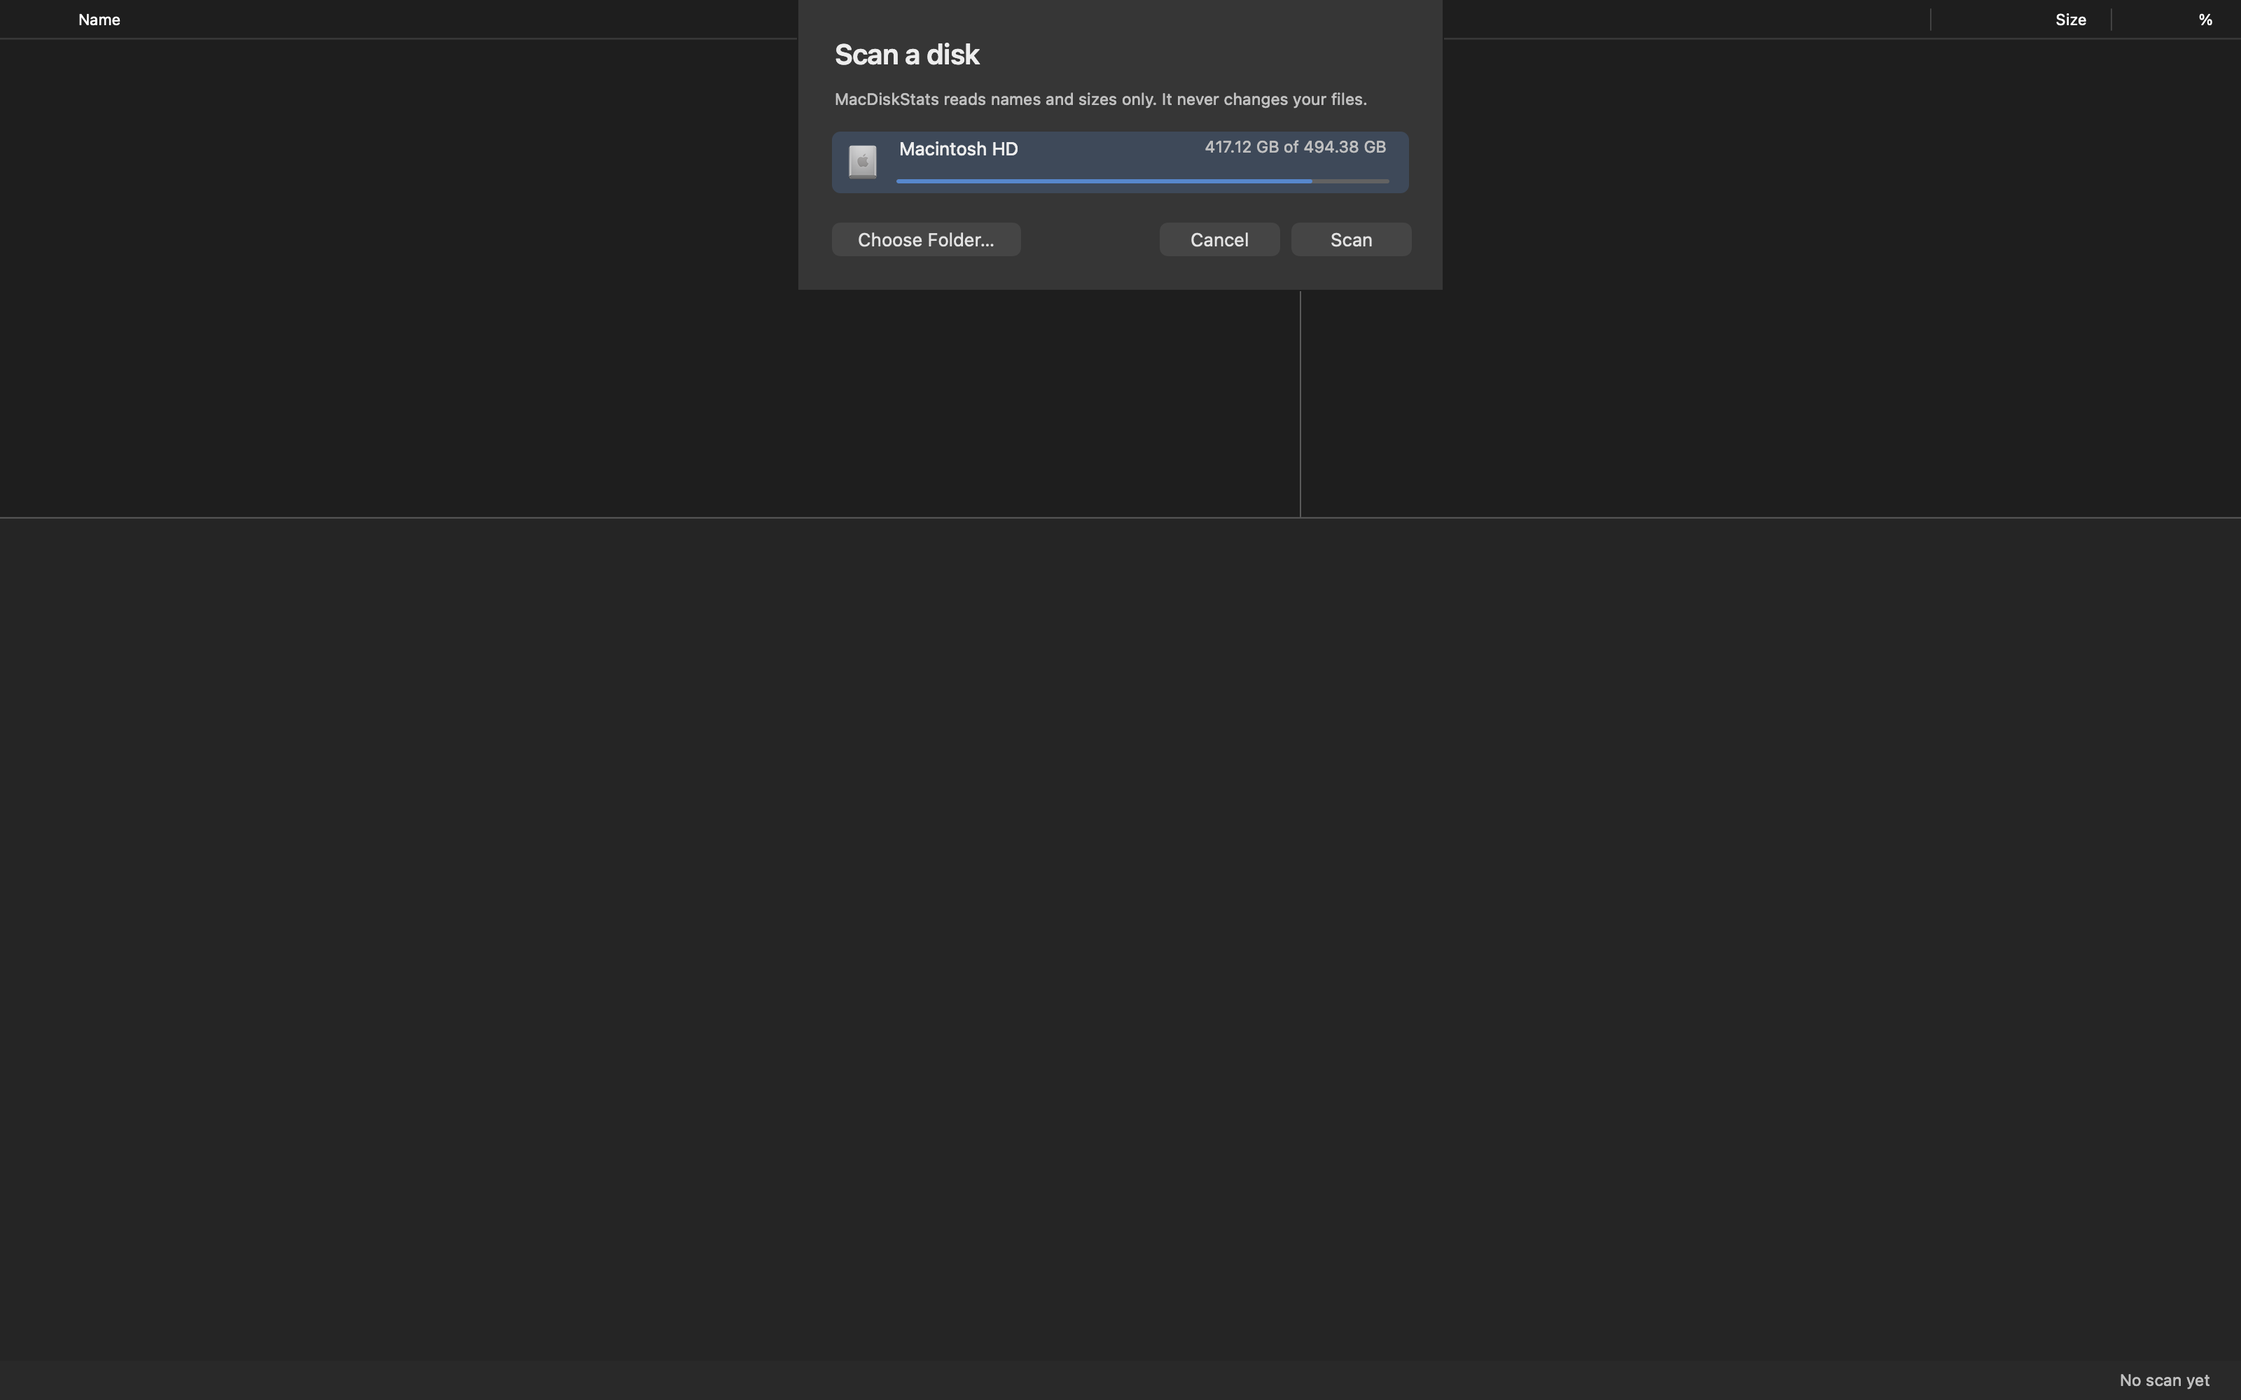
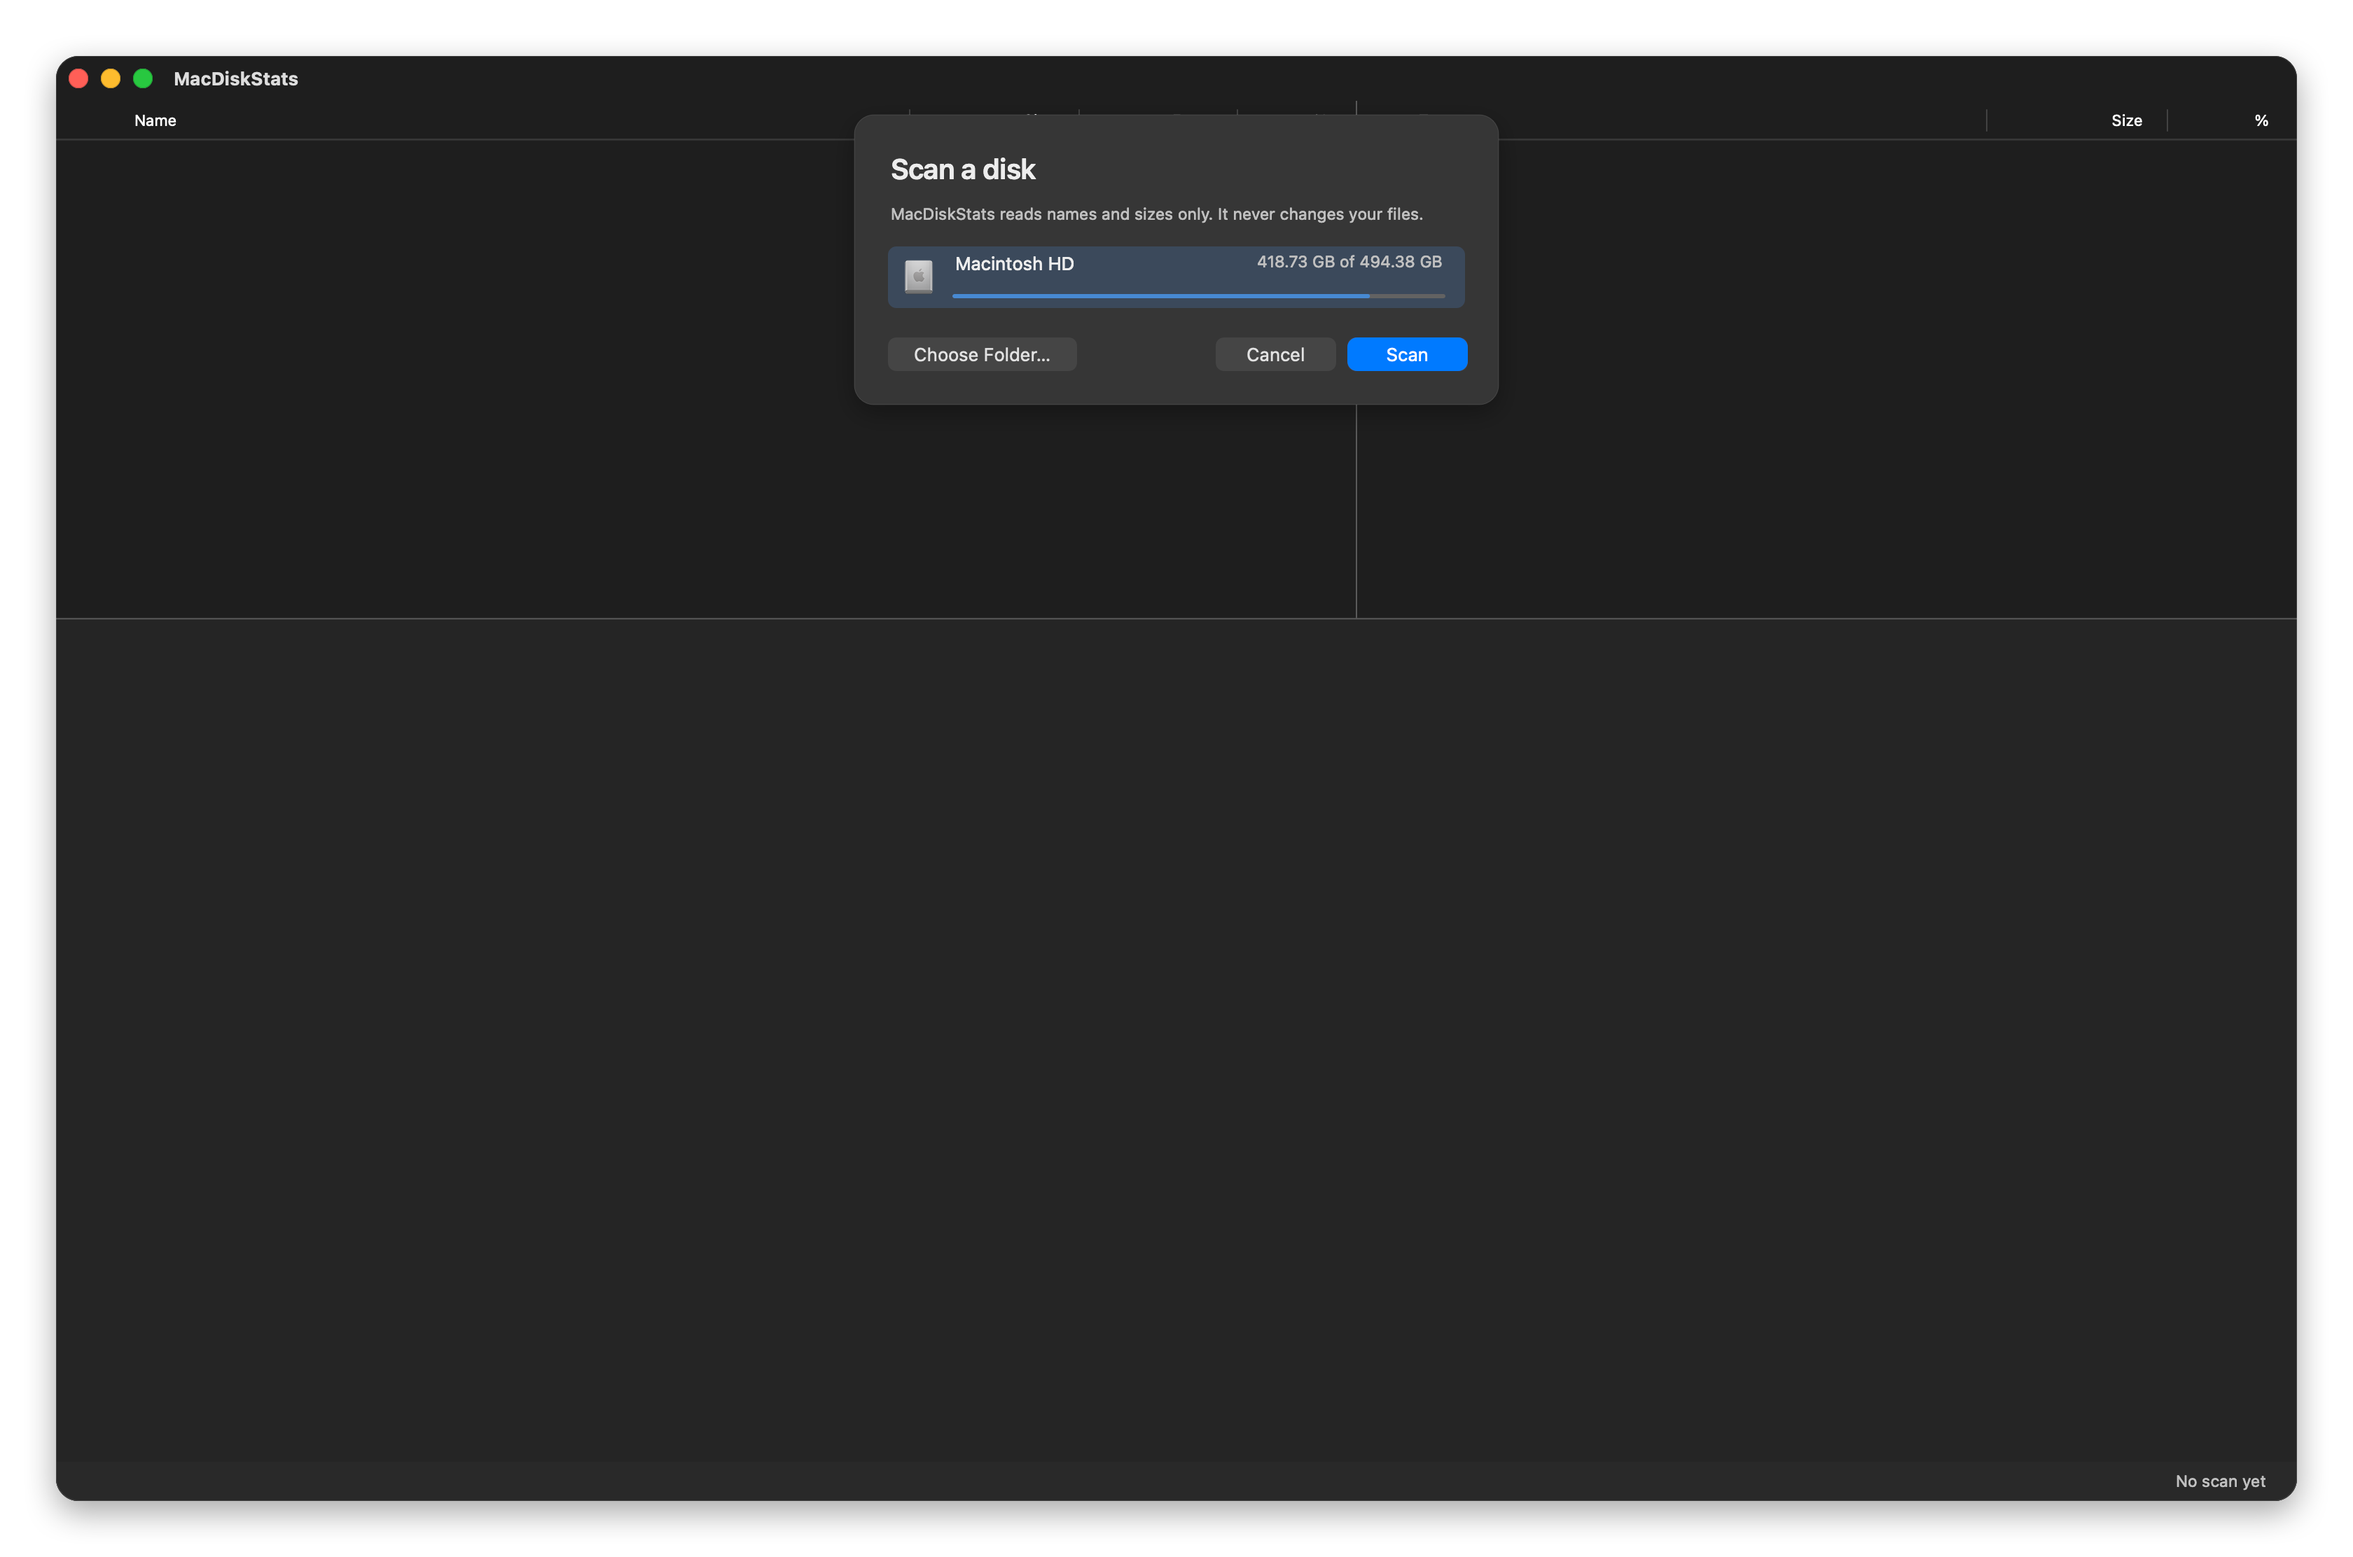
Screenshots show the whole window: title bar, rounded corners, shadow, front-window title and buttons

Changed region(s): [[0.0, 0.0, 1.0, 1.0]]

diff --git a/Sources/MacDiskStatsApp/DebugSnapshot.swift b/Sources/MacDiskStatsApp/DebugSnapshot.swift
@@ -12,6 +12,7 @@ import AppKit
             NSApp.terminate(nil)
             return
         }
+        let windowMode = ProcessInfo.processInfo.environment["MACDISKSTATS_SNAPSHOT_WINDOW"] == "1"
         window.setContentSize(size ?? Tokens.snapshotSize)
         window.contentView?.layoutSubtreeIfNeeded()
         guard let view = window.contentView else { NSApp.terminate(nil); return }
@@ -23,18 +24,34 @@ import AppKit
             let sheetRect = sheetView.bounds
             if let sheetRep = sheetView.bitmapImageRepForCachingDisplay(in: sheetRect) {
                 sheetView.cacheDisplay(in: sheetRect, to: sheetRep)
+                if windowMode, let button = sheet.defaultButtonCell?.controlView as? NSButton {
+                    activeDefaultButton(button, in: sheetView, rep: sheetRep, appearance: sheet.effectiveAppearance)
+                }
                 let context = NSGraphicsContext(bitmapImageRep: rep)
                 NSGraphicsContext.saveGraphicsState()
                 NSGraphicsContext.current = context
                 let x = (rect.width - sheetRect.width) / 2
-                let y = rect.height - sheetRect.height
-                NSColor.windowBackgroundColor.setFill()
-                NSBezierPath(roundedRect: NSRect(x: x - 1, y: y - 1, width: sheetRect.width + 2, height: sheetRect.height + 2), xRadius: 9, yRadius: 9).fill()
-                sheetRep.draw(in: NSRect(x: x, y: y, width: sheetRect.width, height: sheetRect.height))
+                if windowMode {
+                    // A floating rounded card with a shadow, as macOS 26 shows a sheet.
+                    let card = NSRect(x: x, y: rect.height - sheetRect.height - 10, width: sheetRect.width, height: sheetRect.height)
+                    let shape = NSBezierPath(roundedRect: card, xRadius: 14, yRadius: 14)
+                    NSGraphicsContext.saveGraphicsState()
+                    let shadow = NSShadow(); shadow.shadowColor = NSColor.black.withAlphaComponent(0.3); shadow.shadowBlurRadius = 18; shadow.shadowOffset = NSSize(width: 0, height: -6); shadow.set()
+                    NSColor.windowBackgroundColor.setFill(); shape.fill()
+                    NSGraphicsContext.restoreGraphicsState()
+                    NSGraphicsContext.saveGraphicsState(); shape.addClip(); sheetRep.draw(in: card); NSGraphicsContext.restoreGraphicsState()
+                    NSColor.separatorColor.setStroke(); shape.lineWidth = 0.5; shape.stroke()
+                } else {
+                    let y = rect.height - sheetRect.height
+                    NSColor.windowBackgroundColor.setFill()
+                    NSBezierPath(roundedRect: NSRect(x: x - 1, y: y - 1, width: sheetRect.width + 2, height: sheetRect.height + 2), xRadius: 9, yRadius: 9).fill()
+                    sheetRep.draw(in: NSRect(x: x, y: y, width: sheetRect.width, height: sheetRect.height))
+                }
                 NSGraphicsContext.restoreGraphicsState()
             }
         }
-        guard let png = rep.representation(using: .png, properties: [:]) else { NSApp.terminate(nil); return }
+        let output = windowMode ? (wholeWindow(window, content: rep) ?? rep) : rep
+        guard let png = output.representation(using: .png, properties: [:]) else { NSApp.terminate(nil); return }
         do {
             if ProcessInfo.processInfo.environment["MACDISKSTATS_SNAPSHOT_DIR"] == nil {
                 try FileManager.default.createDirectory(at: container, withIntermediateDirectories: true)
@@ -43,6 +60,109 @@ import AppKit
             exit(0)
         }
         catch { fputs("snapshot failed: \(error)\n", stderr); NSApp.terminate(nil) }
+    }
+
+    /// Offscreen, the sheet is not key, so its default button draws grey. Paint it as a key sheet shows it: accent fill, white title.
+    private static func activeDefaultButton(_ button: NSButton, in sheetView: NSView, rep: NSBitmapImageRep, appearance: NSAppearance) {
+        let frame = button.convert(button.bounds, to: sheetView)
+        // Measure the grey bezel the system actually drew, so the blue one has the same size and place as its neighbors.
+        let scale = CGFloat(rep.pixelsWide) / sheetView.bounds.width
+        let px = { (v: CGFloat) in Int((v * scale).rounded()) }
+        let top = { (y: CGFloat) in Int(((sheetView.bounds.height - y) * scale).rounded()) }
+        guard let background = rep.colorAt(x: px(frame.minX) - 3, y: top(frame.midY))?.usingColorSpace(.deviceRGB) else { return }
+        var minX = Int.max, maxX = Int.min, minY = Int.max, maxY = Int.min
+        for y in top(frame.maxY)..<top(frame.minY) {
+            for x in px(frame.minX)..<px(frame.maxX) {
+                guard let c = rep.colorAt(x: x, y: y)?.usingColorSpace(.deviceRGB) else { continue }
+                if abs(c.redComponent - background.redComponent) + abs(c.greenComponent - background.greenComponent) + abs(c.blueComponent - background.blueComponent) > 0.06 {
+                    minX = min(minX, x); maxX = max(maxX, x); minY = min(minY, y); maxY = max(maxY, y)
+                }
+            }
+        }
+        guard minX <= maxX, minY <= maxY else { fputs("snapshot: default button bezel not found; it stays grey\n", stderr); return }
+        let bezel = NSRect(x: CGFloat(minX) / scale, y: sheetView.bounds.height - CGFloat(maxY + 1) / scale, width: CGFloat(maxX - minX + 1) / scale, height: CGFloat(maxY - minY + 1) / scale)
+        appearance.performAsCurrentDrawingAppearance {
+            NSGraphicsContext.saveGraphicsState()
+            NSGraphicsContext.current = NSGraphicsContext(bitmapImageRep: rep)
+            NSColor.controlAccentColor.setFill()
+            NSBezierPath(roundedRect: bezel, xRadius: min(bezel.height / 2, 7), yRadius: min(bezel.height / 2, 7)).fill()
+            let title = NSAttributedString(string: button.title, attributes: [.font: button.font ?? NSFont.systemFont(ofSize: NSFont.systemFontSize), .foregroundColor: NSColor.white])
+            let size = title.size()
+            title.draw(at: NSPoint(x: bezel.midX - size.width / 2, y: bezel.midY - size.height / 2))
+            NSGraphicsContext.restoreGraphicsState()
+        }
+    }
+
+    /// The whole window for marketing shots: title bar, rounded corners and a soft shadow on a clear background.
+    /// `content` is the already-drawn content view (with any sheet), placed over the frame's content area.
+    private static func wholeWindow(_ window: NSWindow, content: NSBitmapImageRep) -> NSBitmapImageRep? {
+        guard let contentView = window.contentView, let frameView = contentView.superview else {
+            fputs("snapshot: no window frame view; writing the content only\n", stderr)
+            return nil
+        }
+        // The sheet is already drawn into `content`. Detach it so the title bar draws in its normal color, not the sheet-parent grey.
+        if let attached = window.attachedSheet { window.endSheet(attached) }
+        // Offscreen, the window is not in front, so its title draws faded. Draw it in the normal label color.
+        func titleFields(_ view: NSView) -> [NSTextField] { view.subviews.flatMap { ($0 as? NSTextField).map { [$0] } ?? titleFields($0) } }
+        let titleField = titleFields(frameView).first { $0.stringValue == window.title && !$0.isDescendant(of: contentView) }
+        if titleField == nil { fputs("snapshot: title field not found; the title stays faded\n", stderr) }
+        frameView.layoutSubtreeIfNeeded()
+        let frameRect = frameView.bounds
+        guard let frameRep = frameView.bitmapImageRepForCachingDisplay(in: frameRect) else { return nil }
+        frameView.cacheDisplay(in: frameRect, to: frameRep)
+        let scale = CGFloat(frameRep.pixelsWide) / frameRect.width
+        let margin: CGFloat = 40, radius: CGFloat = 16
+        let canvas = NSSize(width: frameRect.width + margin * 2, height: frameRect.height + margin * 2)
+        guard let out = NSBitmapImageRep(bitmapDataPlanes: nil, pixelsWide: Int(canvas.width * scale), pixelsHigh: Int(canvas.height * scale), bitsPerSample: 8, samplesPerPixel: 4, hasAlpha: true, isPlanar: false, colorSpaceName: .deviceRGB, bytesPerRow: 0, bitsPerPixel: 0) else { return nil }
+        out.size = canvas
+        let body = NSRect(x: margin, y: margin, width: frameRect.width, height: frameRect.height)
+        let contentRect = contentView.convert(contentView.bounds, to: frameView).offsetBy(dx: margin, dy: margin)
+        window.effectiveAppearance.performAsCurrentDrawingAppearance {
+            NSGraphicsContext.saveGraphicsState()
+            NSGraphicsContext.current = NSGraphicsContext(bitmapImageRep: out)
+            let shape = NSBezierPath(roundedRect: body, xRadius: radius, yRadius: radius)
+            let shadow = NSShadow()
+            shadow.shadowColor = NSColor.black.withAlphaComponent(0.35)
+            shadow.shadowBlurRadius = 24
+            shadow.shadowOffset = NSSize(width: 0, height: -8)
+            NSGraphicsContext.saveGraphicsState()
+            shadow.set()
+            NSColor.windowBackgroundColor.setFill()
+            shape.fill()
+            NSGraphicsContext.restoreGraphicsState()
+            NSGraphicsContext.saveGraphicsState()
+            shape.addClip()
+            frameRep.draw(in: body)
+            content.draw(in: contentRect)
+            if let field = titleField, let font = field.font {
+                // Cover the faded title with the title bar's own color, then draw it in the front-window label color.
+                let r = field.convert(field.bounds, to: frameView)
+                // The patch is copied from the empty right end of the same title bar, so it matches exactly.
+                let patch = NSRect(x: frameRect.maxX - r.width - 24, y: r.minY, width: r.width, height: r.height)
+                frameRep.draw(in: NSRect(x: r.minX + margin, y: r.minY + margin, width: r.width, height: r.height), from: patch, operation: .copy, fraction: 1, respectFlipped: false, hints: nil)
+                let title = NSAttributedString(string: window.title, attributes: [.font: font, .foregroundColor: NSColor.labelColor])
+                let size = title.size()
+                title.draw(at: NSPoint(x: r.minX + margin + 2, y: r.midY + margin - size.height / 2))
+            }
+            // An offscreen window draws its title-bar buttons in the inactive grey; paint them as a front window shows them.
+            let colors: [(NSWindow.ButtonType, NSColor)] = [(.closeButton, NSColor(srgbRed: 1.0, green: 0.373, blue: 0.341, alpha: 1)), (.miniaturizeButton, NSColor(srgbRed: 0.996, green: 0.737, blue: 0.180, alpha: 1)), (.zoomButton, NSColor(srgbRed: 0.157, green: 0.784, blue: 0.251, alpha: 1))]
+            for (type, color) in colors {
+                guard let button = window.standardWindowButton(type), button.superview != nil else { continue }
+                let r = button.convert(button.bounds, to: frameView).offsetBy(dx: margin, dy: margin)
+                let side = min(r.width, r.height)
+                let dot = NSRect(x: r.midX - side / 2, y: r.midY - side / 2, width: side, height: side)
+                color.setFill(); NSBezierPath(ovalIn: dot).fill()
+                color.blended(withFraction: 0.25, of: .black)?.setStroke()
+                let ring = NSBezierPath(ovalIn: dot.insetBy(dx: 0.25, dy: 0.25)); ring.lineWidth = 0.5; ring.stroke()
+            }
+            NSGraphicsContext.restoreGraphicsState()
+            NSColor.separatorColor.setStroke()
+            let edge = NSBezierPath(roundedRect: body.insetBy(dx: 0.25, dy: 0.25), xRadius: radius, yRadius: radius)
+            edge.lineWidth = 0.5
+            edge.stroke()
+            NSGraphicsContext.restoreGraphicsState()
+        }
+        return out
     }
 }
 #endif
